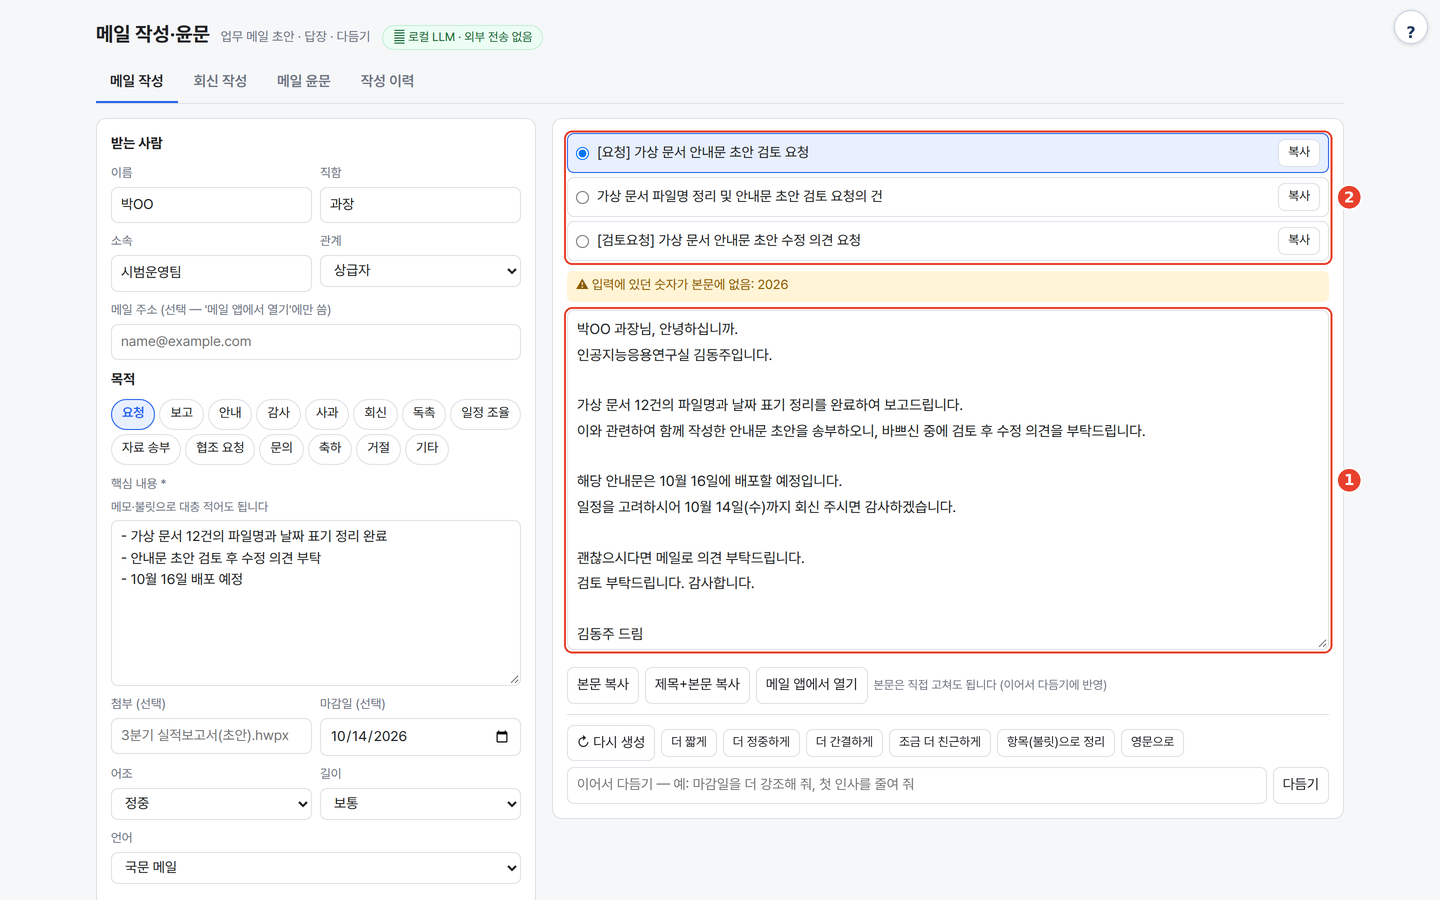
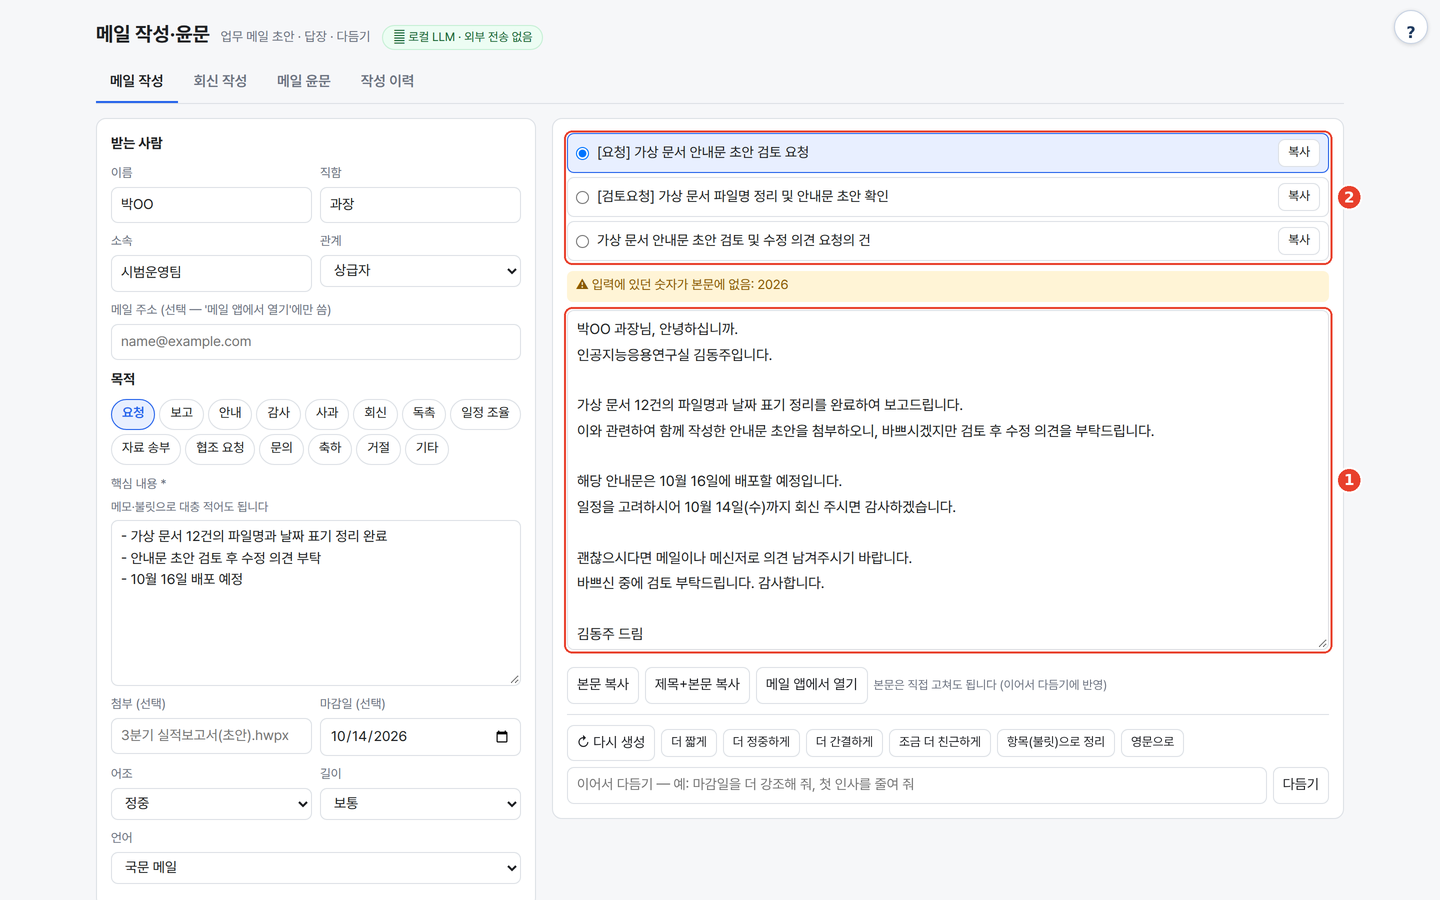
README 입력 화면을 맨 위부터 다시 캡처

Changed region(s): [[0.4062, 0.1867, 0.625, 0.28], [0.4062, 0.5911, 0.625, 0.6533], [0.625, 0.4667, 0.8125, 0.4978]]

diff --git a/README.md b/README.md
@@ -46,13 +46,13 @@
 인공지능응용연구실 김동주입니다.
 
 가상 문서 12건의 파일명과 날짜 표기 정리를 완료하여 보고드립니다.
-이와 관련하여 함께 작성한 안내문 초안을 송부하오니, 바쁘신 중에 검토 후 수정 의견을 부탁드립니다.
+이와 관련하여 함께 작성한 안내문 초안을 첨부하오니, 바쁘시겠지만 검토 후 수정 의견을 부탁드립니다.
 
 해당 안내문은 10월 16일에 배포할 예정입니다.
 일정을 고려하시어 10월 14일(수)까지 회신 주시면 감사하겠습니다.
 
-괜찮으시다면 메일로 의견 부탁드립니다.
-검토 부탁드립니다. 감사합니다.
+괜찮으시다면 메일이나 메신저로 의견 남겨주시기 바랍니다.
+바쁘신 중에 검토 부탁드립니다. 감사합니다.
 
 김동주 드림
 
@@ -61,7 +61,7 @@
 gggg8657@gmail.com
 ```
 
-이 실행은 마감일의 연도 "2026"이 본문에 없다는 숫자 알림을 냈습니다. 초안의 "송부하오니"처럼 실제 첨부 여부와 맞는지도 보내기 전에 확인하세요.
+이 실행은 마감일의 연도 "2026"이 본문에 없다는 숫자 알림을 냈습니다. 초안의 "첨부하오니"처럼 실제 첨부 여부와 맞는지도 보내기 전에 확인하세요.
 
 <details><summary>입력 화면</summary>
 
